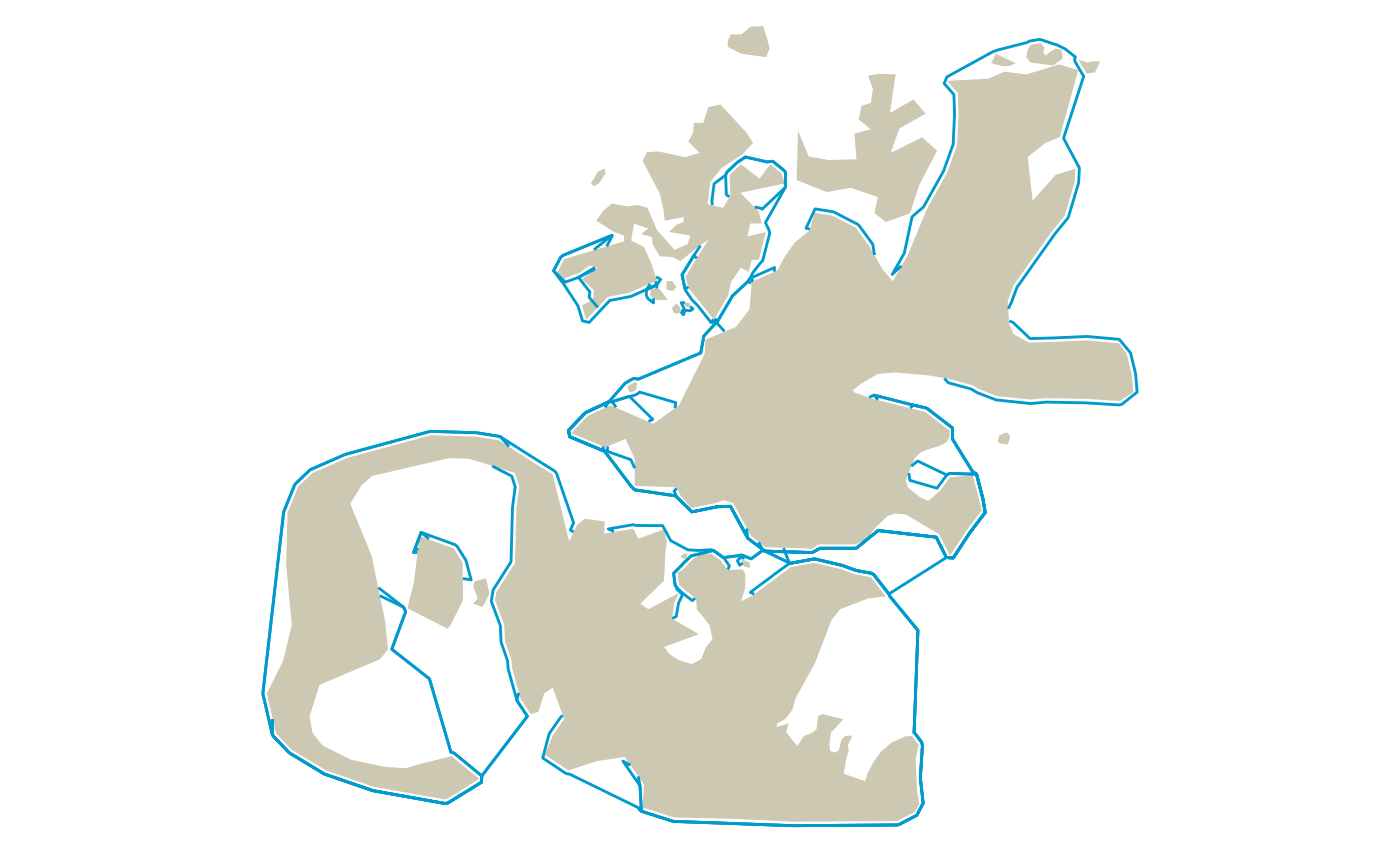
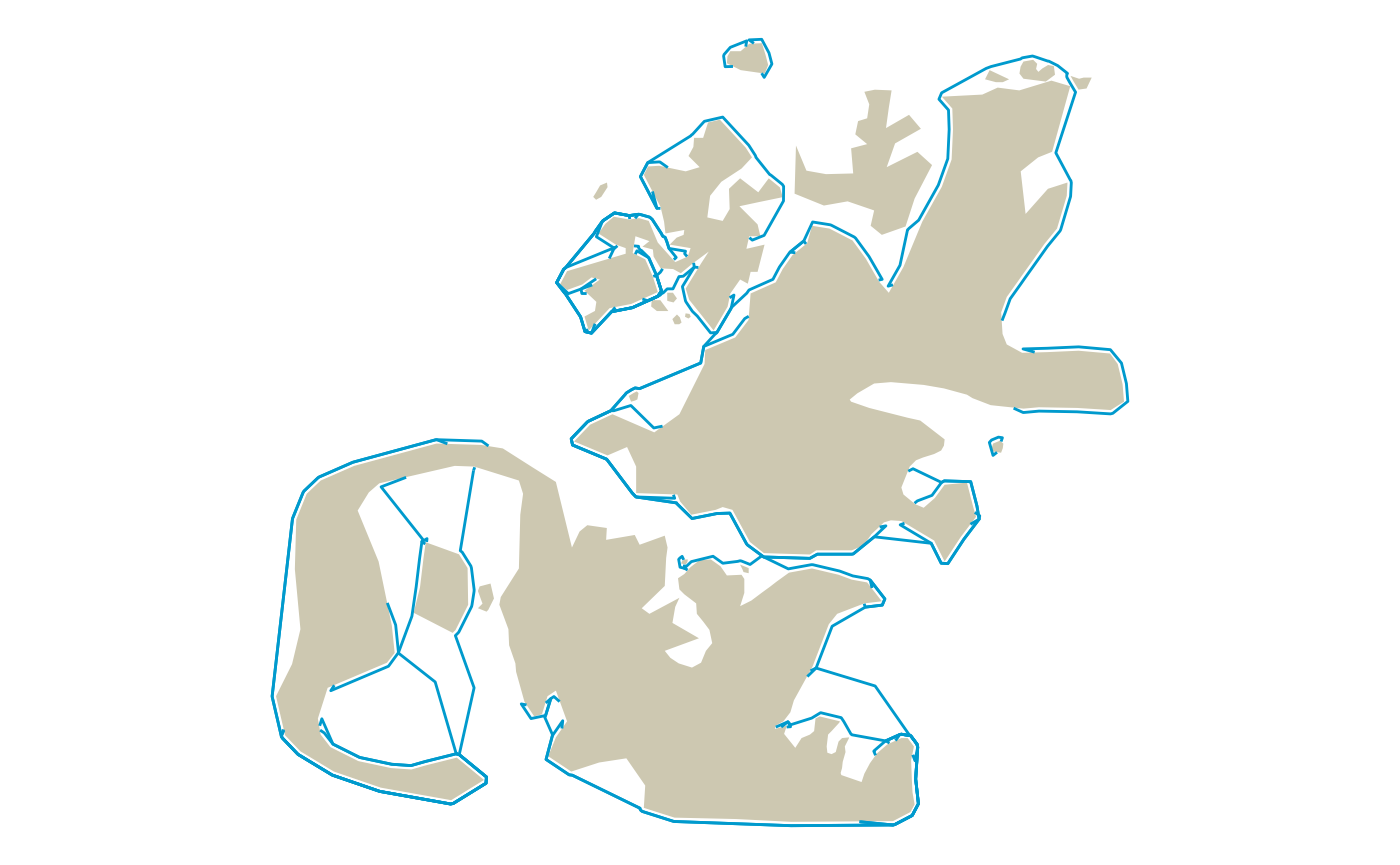
pkgdown site update
now, with temp patch for issue with prt_shortpath() when passing the same start and end node.

diff --git a/docs/articles/reroute_demo.html b/docs/articles/reroute_demo.html
@@ -149,23 +149,22 @@
 <div class="sourceCode" id="cb6"><pre class="downlit sourceCode r">
 <code class="sourceCode R"><span class="va">segs_tbl</span> <span class="op">&lt;-</span> <span class="fu"><a href="../reference/get_barrier_segments.html">get_barrier_segments</a></span><span class="op">(</span><span class="va">track_pts</span>,<span class="va">land_barrier</span><span class="op">)</span>
 <span class="va">segs_tbl</span>
-<span class="co">#&gt; # A tibble: 35 x 6</span>
+<span class="co">#&gt; # A tibble: 39 x 6</span>
 <span class="co">#&gt;      sid start_idx end_idx n_pts            start_pt              end_pt</span>
 <span class="co">#&gt;    &lt;int&gt;     &lt;dbl&gt;   &lt;dbl&gt; &lt;dbl&gt;         &lt;POINT [m]&gt;         &lt;POINT [m]&gt;</span>
-<span class="co">#&gt;  1     1        10      17     6 (84024.68 941606.5) (84039.99 941748.6)</span>
-<span class="co">#&gt;  2     2        75     557   481   (84166.82 942926) (85220.87 952710.3)</span>
-<span class="co">#&gt;  3     3       638     643     4 (84419.08 952349.2) (84345.78 952278.2)</span>
-<span class="co">#&gt;  4     4       738     741     2 (82953.13 950928.1) (82909.15 950885.5)</span>
-<span class="co">#&gt;  5     5      1027    1480   452 (81432.79 947513.4) (90344.51 945039.1)</span>
-<span class="co">#&gt;  6     6      1556    1986   429 (90437.79 945297.9) (83319.84 950436.9)</span>
-<span class="co">#&gt;  7     7      2065    2077    11 (82012.12 951381.1) (81813.48 951524.5)</span>
-<span class="co">#&gt;  8     8      2145    2257   111 (80687.85 952337.2) (78833.87 953675.7)</span>
-<span class="co">#&gt;  9     9      2314    2347    32 (78343.94 953542.5) (78391.63 952870.4)</span>
-<span class="co">#&gt; 10    10      2350    2422    71 (78395.96 952809.3)   (78500.01 951343)</span>
-<span class="co">#&gt; # … with 25 more rows</span></code></pre></div>
+<span class="co">#&gt;  1     1        87     175    87 (70949.42 945162.2) (72555.49 946467.8)</span>
+<span class="co">#&gt;  2     2       475     490    14 (78030.71 950918.7) (78304.48 951141.2)</span>
+<span class="co">#&gt;  3     3       533     614    80 (79089.26 951779.2) (80567.57 952980.9)</span>
+<span class="co">#&gt;  4     4       634     658    23 (80932.58 953277.7)  (81370.6 953633.7)</span>
+<span class="co">#&gt;  5     5       687     702    14   (81886.37 953757) (82139.54 953511.3)</span>
+<span class="co">#&gt;  6     6       713     785    71  (82325.2 953331.1) (83540.39 952151.7)</span>
+<span class="co">#&gt;  7     7       829    1197   367 (84283.02 951430.9) (90494.03 945402.5)</span>
+<span class="co">#&gt;  8     8      1264    1301    36 (90736.97 944154.6) (90346.87 943376.7)</span>
+<span class="co">#&gt;  9     9      1421    1450    28 (89081.68 940853.7)   (88775.92 940244)</span>
+<span class="co">#&gt; 10    10      1704    1713     8 (85760.78 935445.8)  (85549.1 935444.4)</span>
+<span class="co">#&gt; # … with 29 more rows</span></code></pre></div>
 <p>Our next step is to create a visibility graph. This is, essentially, our road network for our marine environment. At some point, I’ll provide greater detail on this process. But, in simple terms, we connect all of the vertices for our barrier polygon with a Delaunay triangle mesh and, then, remove any of the edges that cross land. Our <code><a href="../reference/prt_visgraph.html">prt_visgraph()</a></code> function returns a <em>SpatialLinesNetwork</em> created with the <a href="https://docs.ropensci.org/stplanr">stplanr</a> package.</p>
 <p>With our network created, we need to identify the nearest node on the network for the start and end points of each identified segment.</p>
-<p>NOTE: there is currently an error when the nearest node for the start and end is the same node when calculating the shortest path between them. I need to explore this further.</p>
 <div class="sourceCode" id="cb7"><pre class="downlit sourceCode r">
 <code class="sourceCode R"><span class="va">vis_graph</span> <span class="op">&lt;-</span> <span class="fu"><a href="../reference/prt_visgraph.html">prt_visgraph</a></span><span class="op">(</span><span class="va">land_barrier</span>, buffer <span class="op">=</span> <span class="fl">150</span><span class="op">)</span>
 <span class="va">segs_tbl</span> <span class="op">&lt;-</span> <span class="va">segs_tbl</span> <span class="op">%&gt;%</span> <span class="fu"><a href="../reference/prt_nearestnode.html">prt_nearestnode</a></span><span class="op">(</span><span class="va">vis_graph</span><span class="op">)</span></code></pre></div>
@@ -193,8 +192,6 @@
   <span class="va">fix_pts</span> <span class="op">&lt;-</span> <span class="fu"><a href="../reference/prt_orient_line.html">prt_orient_line</a></span><span class="op">(</span><span class="va">segs_tbl</span><span class="op">$</span><span class="va">start_pt</span><span class="op">[</span><span class="va">i</span><span class="op">]</span>, <span class="va">fix_pts</span><span class="op">)</span>
   <span class="va">pts_list</span><span class="op">[[</span><span class="va">i</span><span class="op">]</span><span class="op">]</span> <span class="op">&lt;-</span> <span class="fu">sf</span><span class="fu">::</span><span class="fu"><a href="https://r-spatial.github.io/sf/reference/sf.html">st_sf</a></span><span class="op">(</span>id <span class="op">=</span> <span class="va">fix_idx</span>, geometry <span class="op">=</span> <span class="va">fix_pts</span> <span class="op">)</span>
 <span class="op">}</span>
-<span class="co">#&gt; point order reversed</span>
-<span class="co">#&gt; point order reversed</span>
 
 <span class="va">fixed_pts</span> <span class="op">&lt;-</span> <span class="fu"><a href="https://rdrr.io/r/base/do.call.html">do.call</a></span><span class="op">(</span><span class="va">rbind</span>, <span class="va">pts_list</span><span class="op">)</span> <span class="op">%&gt;%</span> 
   <span class="fu">tibble</span><span class="fu">::</span><span class="fu"><a href="https://tibble.tidyverse.org/reference/as_tibble.html">as_tibble</a></span><span class="op">(</span><span class="op">)</span>

diff --git a/docs/news/index.html b/docs/news/index.html
@@ -130,6 +130,15 @@
 <code>pathroutr_example.Rmd</code> created to demonstrate workflow</li>
 </ul>
 </div>
+    <div id="pathroutr-010" class="section level1">
+<h1 class="page-header" data-toc-text="0.1.0">
+<a href="#pathroutr-010" class="anchor"></a>pathroutr 0.1.0</h1>
+<ul>
+<li>fleshed out the basic ideas and created initial pkgdown site</li>
+<li>{sf} and {stplanr} packages form foundation for the work</li>
+<li>demo vignette added to demonstrate core idea and approach</li>
+</ul>
+</div>
   </div>
 
   <div class="col-md-3 hidden-xs hidden-sm" id="pkgdown-sidebar">

diff --git a/docs/reference/index.html b/docs/reference/index.html
@@ -179,12 +179,6 @@
       </tr><tr>
         
         <td>
-          <p><code><a href="prt_segment_routes.html">prt_segment_routes()</a></code> </p>
-        </td>
-        <td><p>Re-route segments that cross barrier</p></td>
-      </tr><tr>
-        
-        <td>
           <p><code><a href="prt_shortpath.html">prt_shortpath()</a></code> </p>
         </td>
         <td><p>Calculate the shortest path through a visibility network between two points</p></td>
